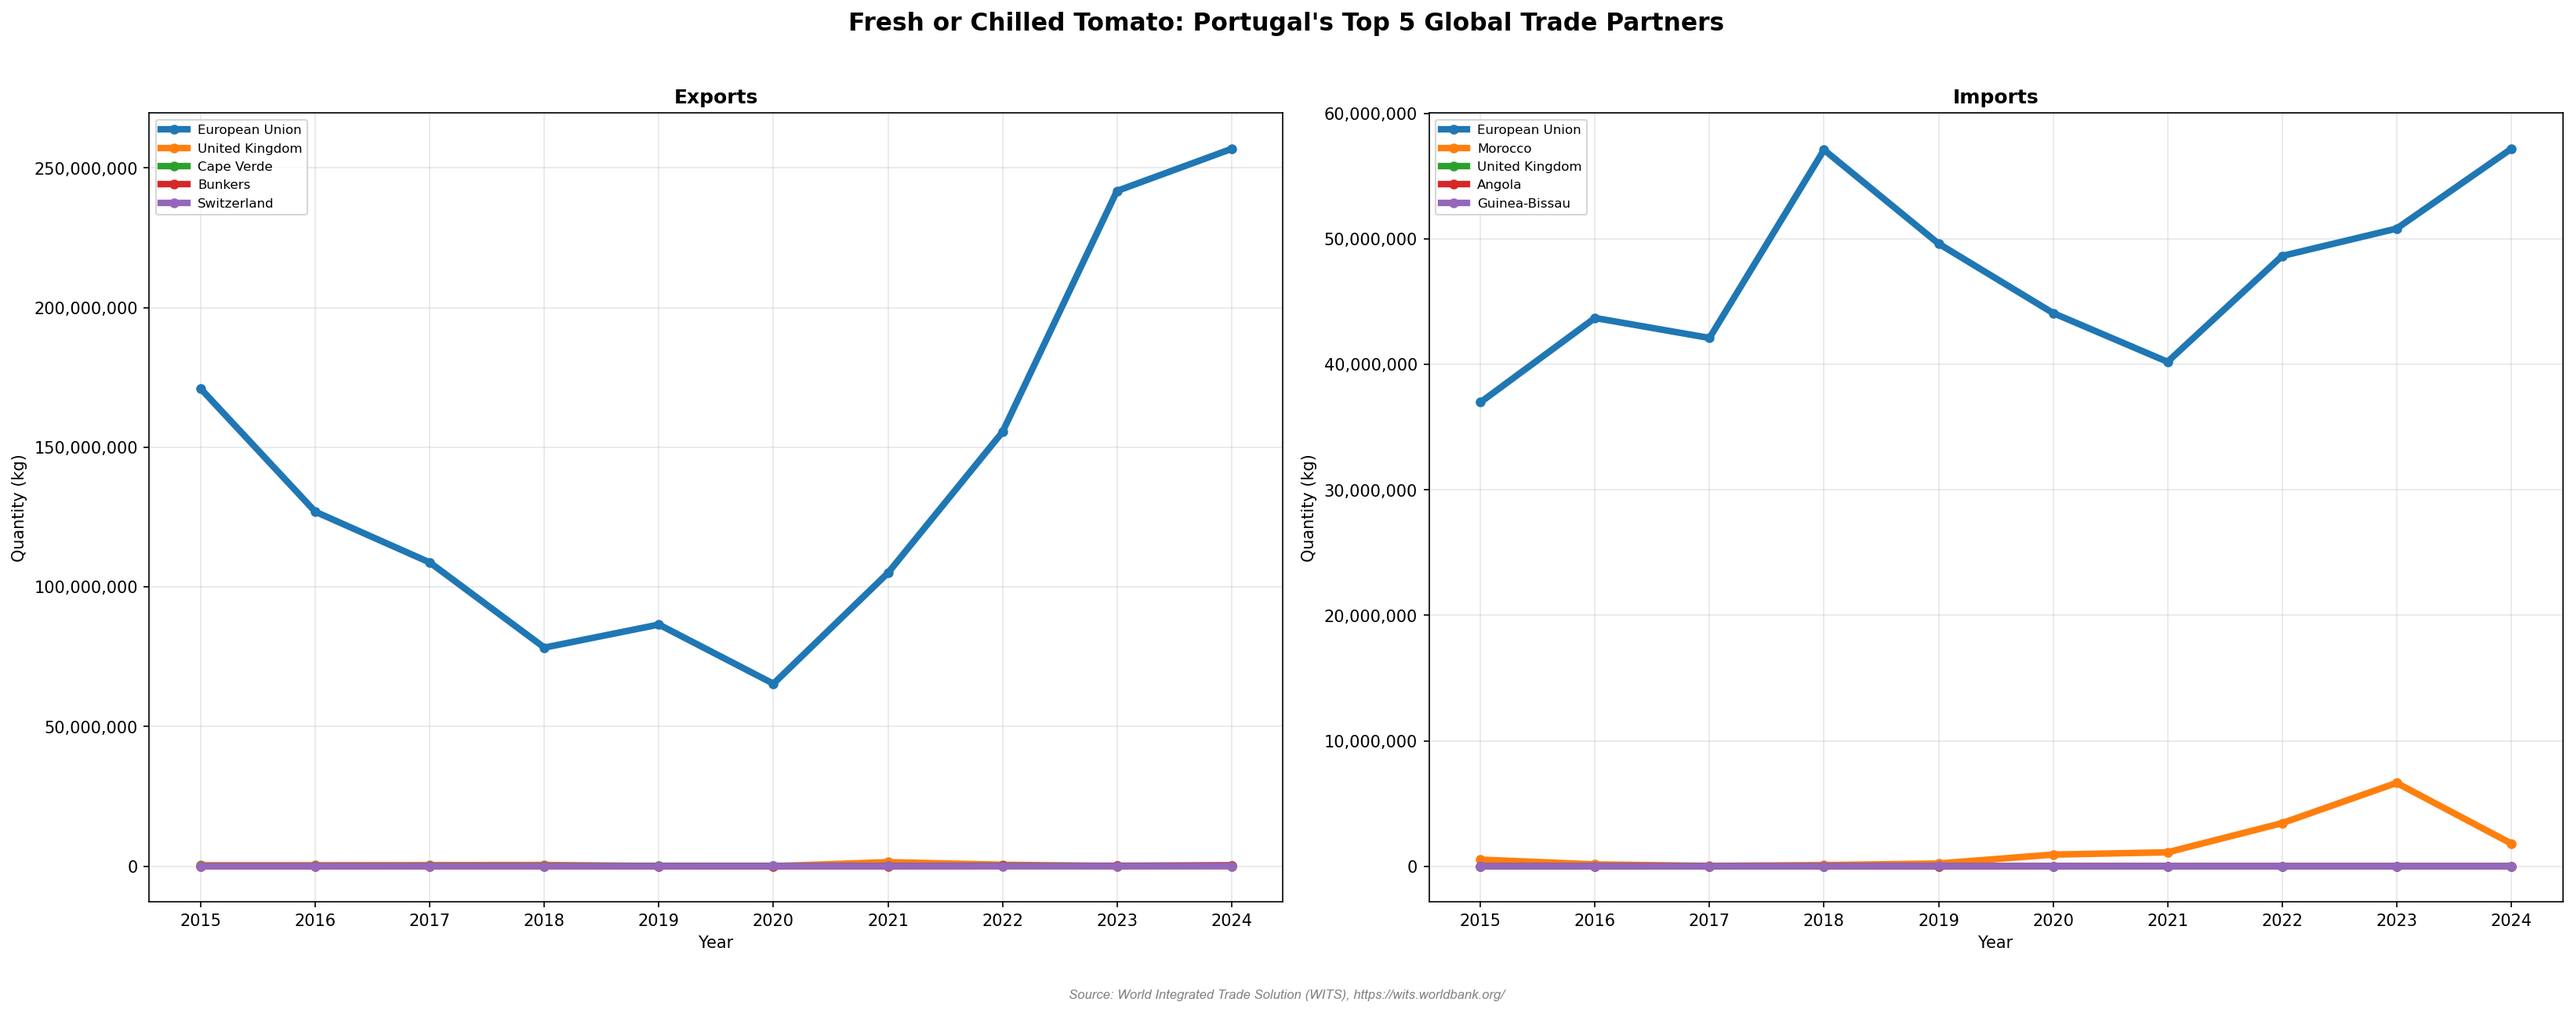
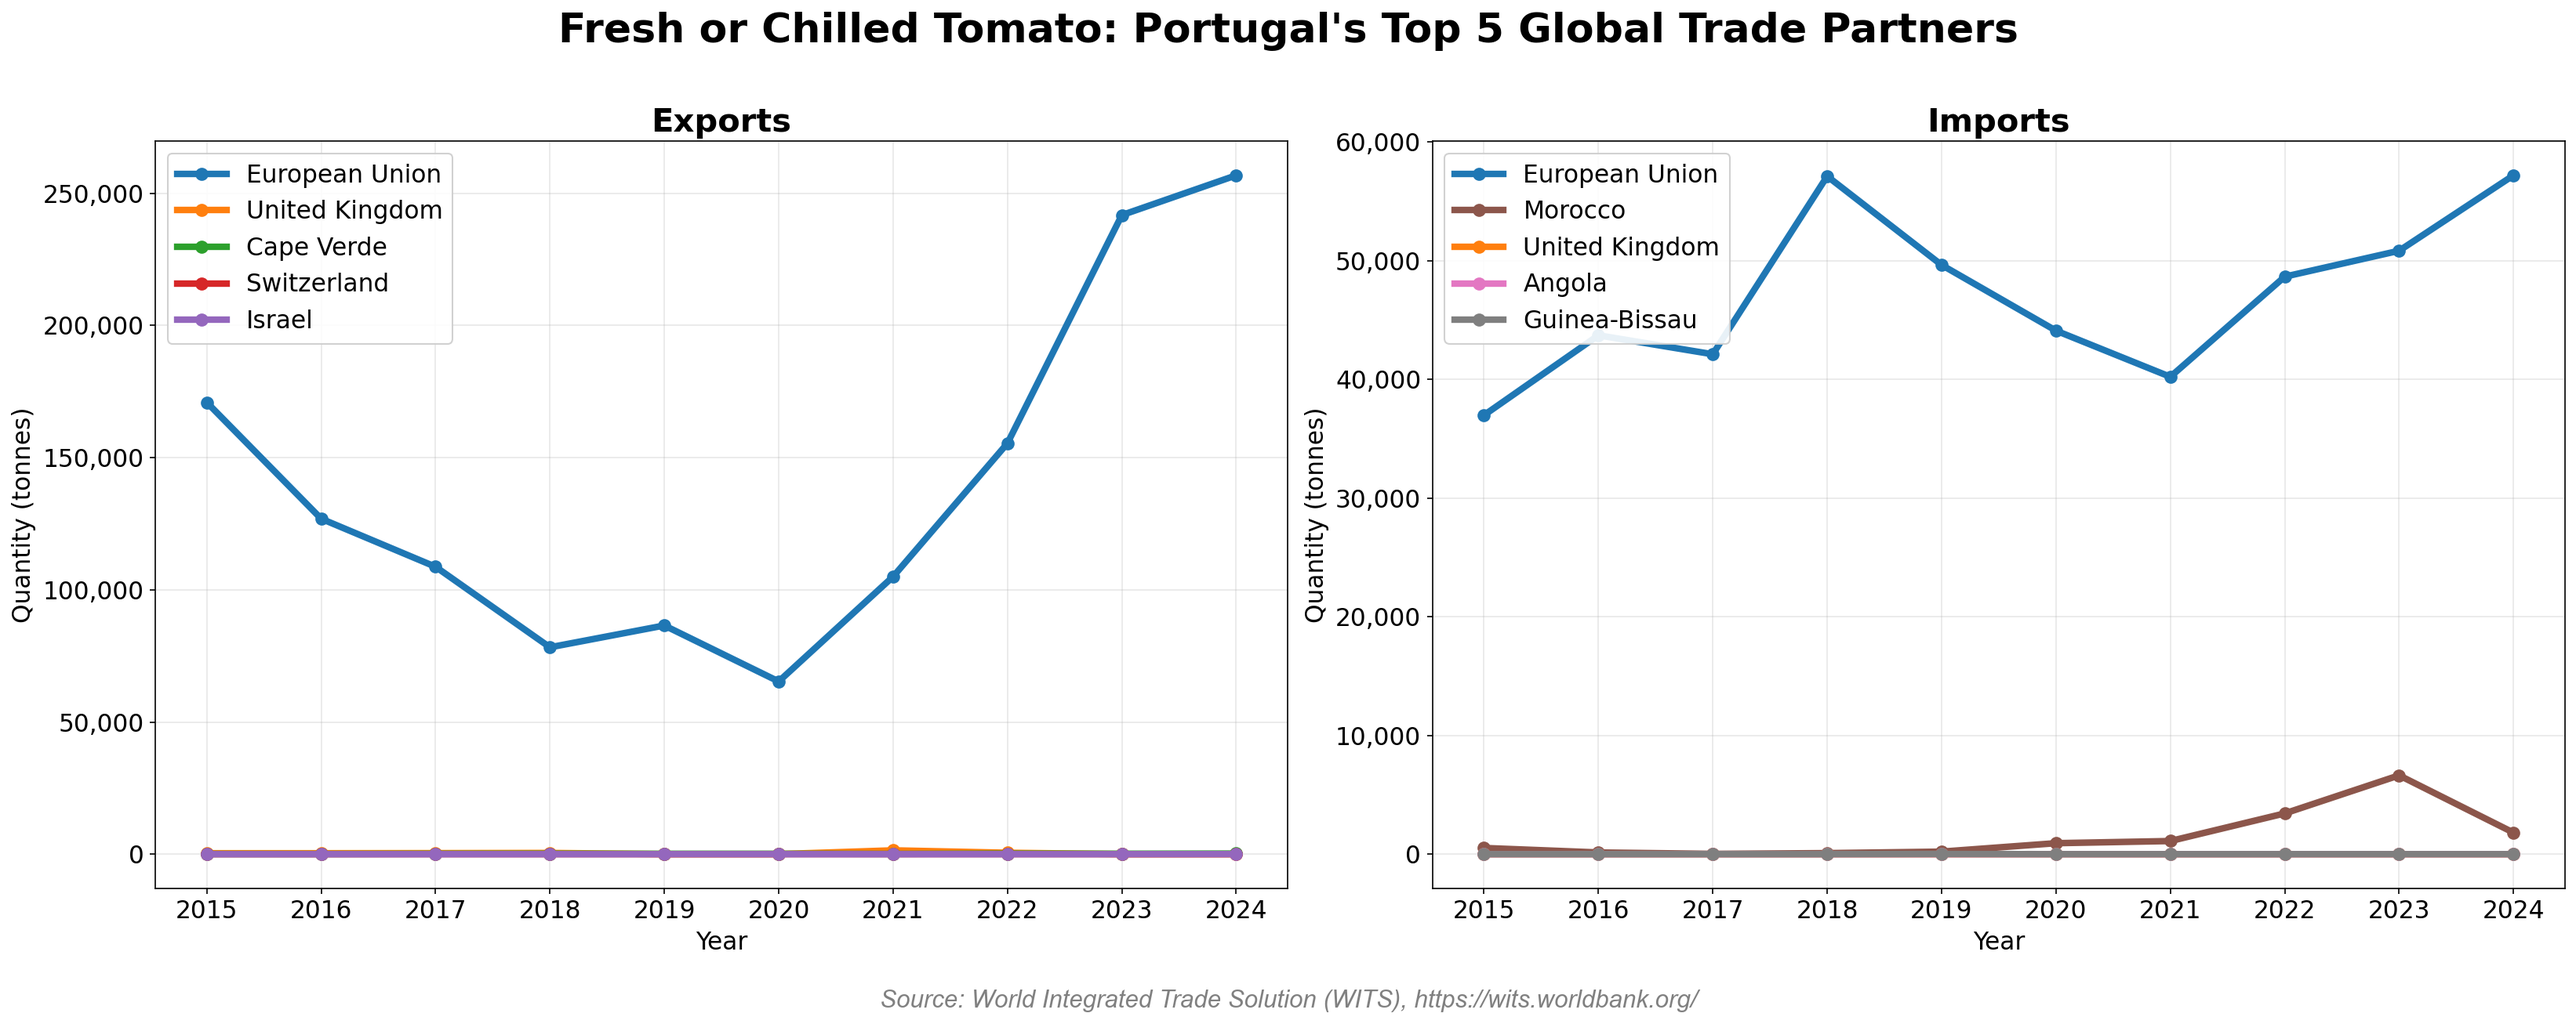
Commit pre-claude code

diff --git a/wits_trade_plotter.py b/wits_trade_plotter.py
@@ -422,16 +422,87 @@ def rank_top_partners(
     return totals.head(n).index.tolist()
 
 
+def _build_color_map(
+    export_top: list[str],
+    import_top: list[str],
+) -> dict[str, str]:
+    """Build a shared colour mapping for all partners across both panels.
+
+    The union of export and import top-partner lists is assigned colours
+    from the matplotlib ``"tab10"`` palette so that each country always
+    gets the same colour regardless of which panel it appears in.
+
+    Args:
+        export_top: Top partner names for the export panel.
+        import_top: Top partner names for the import panel.
+
+    Returns:
+        Dictionary mapping each unique partner name to a hex colour string.
+    """
+    # Preserve insertion order: export partners first, then any import-only
+    seen: dict[str, None] = {}
+    for name in export_top + import_top:
+        seen.setdefault(name, None)
+    all_partners = list(seen.keys())
+
+    cmap = plt.cm.get_cmap("tab10")
+    return {name: cmap(i % 10) for i, name in enumerate(all_partners)}
+
+
+def _print_data_table(
+    quantity_table: pd.DataFrame,
+    top_partners: list[str],
+    product_label: str,
+    reporter_name: str,
+    scope_label: str,
+    trade_flow_label: str,
+) -> None:
+    """Print a formatted table of the plotted data to stdout.
+
+    Values are displayed in tonnes (kg / 1000), matching the plots.
+
+    Args:
+        quantity_table: DataFrame with partners as rows and years as columns.
+        top_partners: Ordered list of partner names included in the plot.
+        product_label: Human-readable HS code description.
+        reporter_name: Human-readable reporter country name.
+        scope_label: Scope description (e.g. ``"EU"`` or ``"Global"``).
+        trade_flow_label: ``"Exports"`` or ``"Imports"``.
+    """
+    years_to_show = sorted(
+        [y for y in ALL_YEARS if y in quantity_table.columns]
+    )
+    # Filter to top partners that actually exist in the table
+    partners_present = [p for p in top_partners if p in quantity_table.index]
+    if not partners_present:
+        return
+
+    table = quantity_table.loc[partners_present, years_to_show] / 1000
+    table.index.name = "Partner"
+
+    header = f"\n{'=' * 80}"
+    header += f"\n  {product_label} | {reporter_name} | {scope_label} | {trade_flow_label}"
+    header += f"\n  (values in tonnes)"
+    header += f"\n{'=' * 80}"
+    print(header)
+    print(table.to_string(float_format=lambda x: f"{x:,.1f}"))
+    print()
+
+
 def _plot_single_panel(
     ax: plt.Axes,
     quantity_table: pd.DataFrame,
     top_partners: list[str],
     trade_flow_label: str,
+    color_map: dict[str, str],
 ) -> None:
     """Draw time-series curves for the given partners onto a single Axes.
 
     This is a private helper used by :func:`generate_combined_plot` to
-    populate one subplot (either the export or the import panel).
+    populate one subplot (either the export or the import panel).  Colours
+    are taken from ``color_map`` so that both panels share consistent
+    country colours.  A legend is placed in the upper-left corner of each
+    panel.
 
     Args:
         ax: The matplotlib Axes object to draw on.
@@ -439,6 +510,8 @@ def _plot_single_panel(
         top_partners: Ordered list of partner names to plot.
         trade_flow_label: ``"Exports"`` or ``"Imports"`` (used as the
             panel subtitle).
+        color_map: Dictionary mapping partner names to colours, as produced
+            by :func:`_build_color_map`.
     """
     years_to_plot = sorted(
         [y for y in ALL_YEARS if y in quantity_table.columns]
@@ -449,21 +522,23 @@ def _plot_single_panel(
             values = quantity_table.loc[partner, years_to_plot]
             ax.plot(
                 years_to_plot,
-                values,
+                values / 1000,
                 marker="o",
                 linewidth=4,
-                markersize=5,
+                markersize=7,
                 label=partner,
+                color=color_map[partner],
             )
 
-    ax.set_title(trade_flow_label, fontsize=12, fontweight="bold")
-    ax.set_xlabel("Year", fontsize=10)
-    ax.set_ylabel("Quantity (kg)", fontsize=10)
+    ax.set_title(trade_flow_label, fontsize=20, fontweight="bold")
+    ax.set_xlabel("Year", fontsize=15)
+    ax.set_ylabel("Quantity (tonnes)", fontsize=15)
     ax.xaxis.set_major_locator(mticker.MaxNLocator(integer=True))
     ax.yaxis.set_major_formatter(
         mticker.FuncFormatter(lambda x, _: f"{x:,.0f}")
     )
-    ax.legend(fontsize=8, loc="best")
+    ax.tick_params(axis="both", labelsize=15)
+    ax.legend(fontsize=15, loc="upper left", framealpha=0.9)
     ax.grid(True, alpha=0.3)
 
 
@@ -480,8 +555,13 @@ def generate_combined_plot(
 ) -> None:
     """Create a side-by-side figure with export (left) and import (right) panels.
 
+    Both panels share the same colour for each country via a unified colour
+    map.  Each panel has its own legend pinned to the upper-left corner.
     A source attribution line is placed beneath the figure in small, grey,
-    italic Arial text, following standard data-visualisation conventions.
+    italic Arial text.
+
+    Additionally, the underlying data for both panels is printed to stdout
+    as formatted tables (values in tonnes).
 
     Args:
         export_table: Quantity table (partners × years) for exports.
@@ -496,20 +576,33 @@ def generate_combined_plot(
             ``"Top 5 Global Trade Partners"``.
         output_path: Full file path where the PNG will be saved.
     """
+    # Print data tables to stdout
+    _print_data_table(
+        export_table, export_top, product_label, reporter_name,
+        scope_label, "Exports",
+    )
+    _print_data_table(
+        import_table, import_top, product_label, reporter_name,
+        scope_label, "Imports",
+    )
+
+    # Build a shared colour map from the union of both partner lists
+    color_map = _build_color_map(export_top, import_top)
+
     fig, (ax_export, ax_import) = plt.subplots(
         nrows=1, ncols=2, figsize=(22, 8)
     )
 
     # --- Left panel: Exports ---
-    _plot_single_panel(ax_export, export_table, export_top, "Exports")
+    _plot_single_panel(ax_export, export_table, export_top, "Exports", color_map)
 
     # --- Right panel: Imports ---
-    _plot_single_panel(ax_import, import_table, import_top, "Imports")
+    _plot_single_panel(ax_import, import_table, import_top, "Imports", color_map)
 
     # --- Suptitle spanning both panels ---
     fig.suptitle(
         f"{product_label}: {reporter_name}'s {scope_label}",
-        fontsize=15,
+        fontsize=25,
         fontweight="bold",
         y=1.02,
     )
@@ -520,7 +613,7 @@ def generate_combined_plot(
         SOURCE_TEXT,
         ha="center",
         va="top",
-        fontsize=8,
+        fontsize=15,
         fontstyle="italic",
         color="grey",
         fontfamily="Arial",
